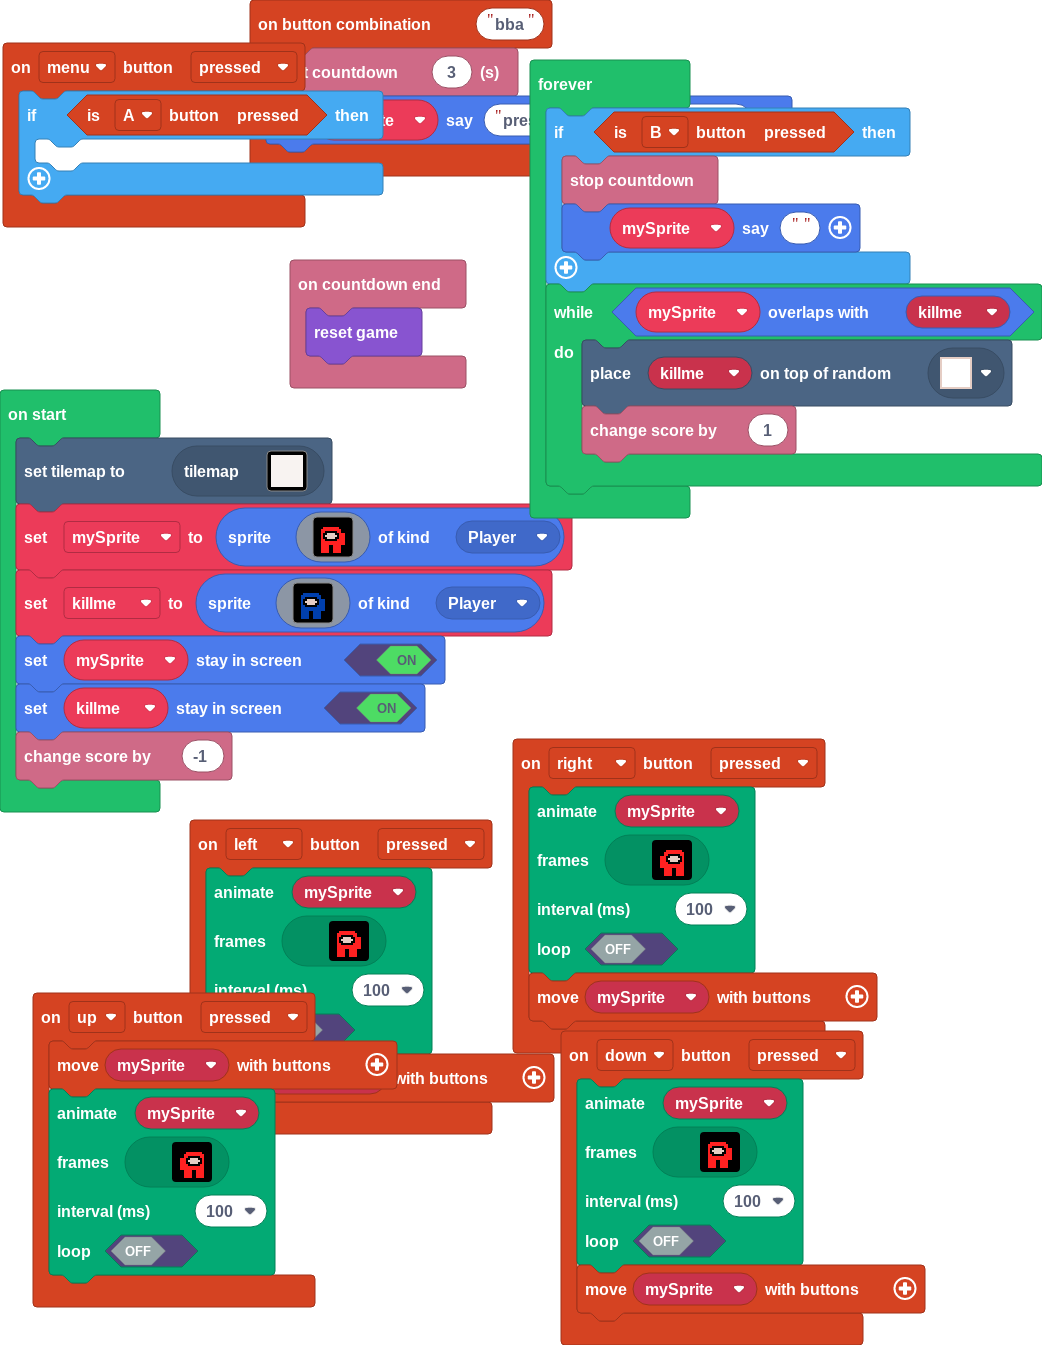
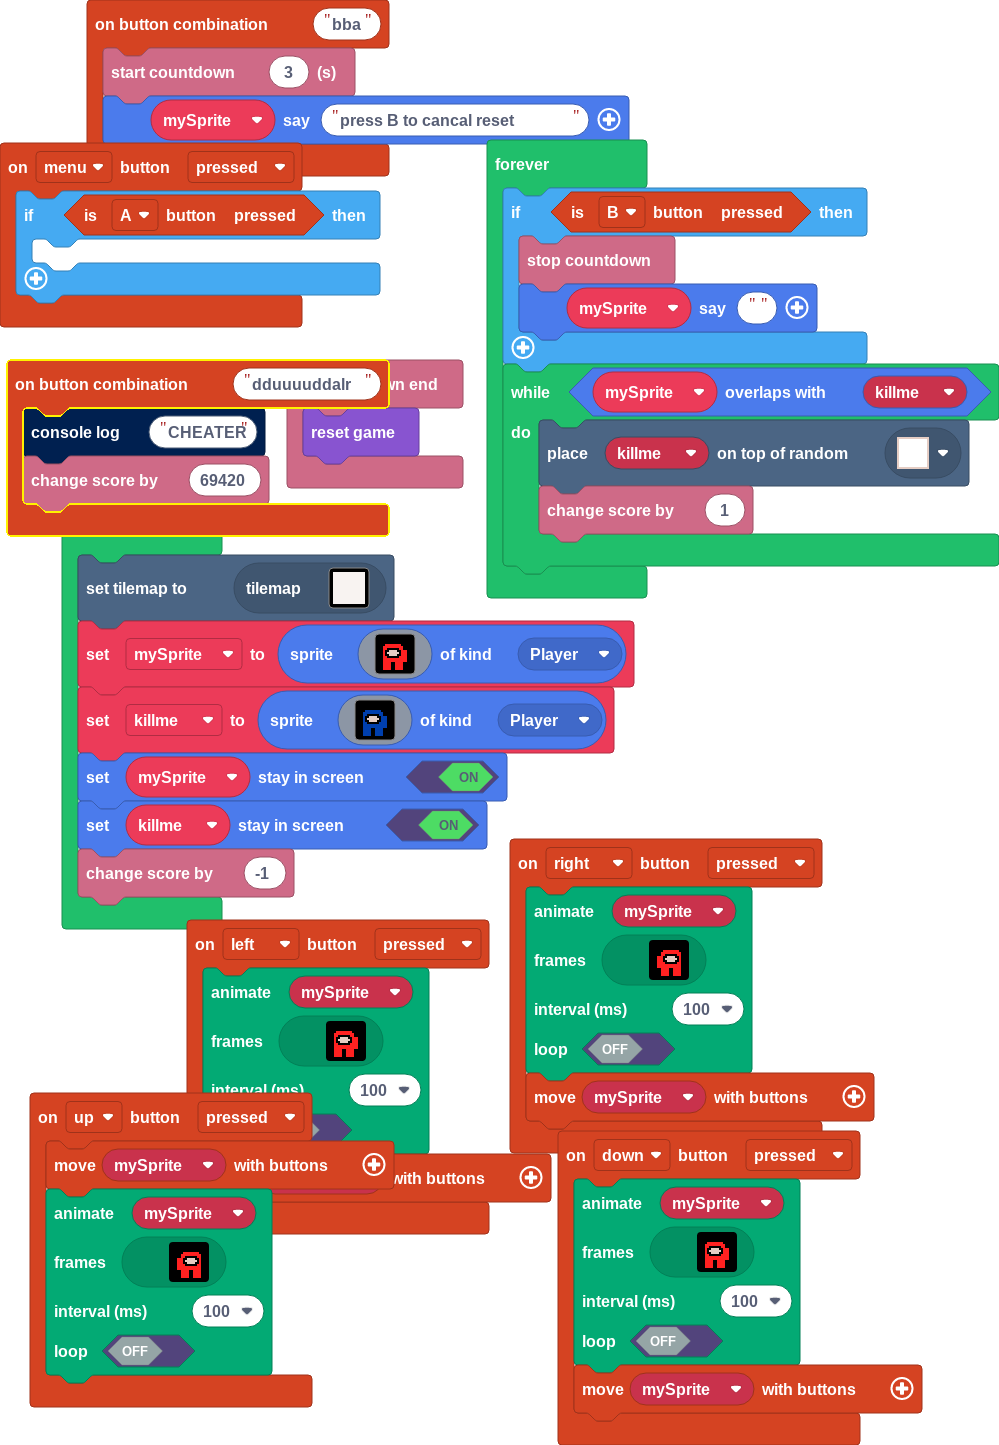
added a cheat code

diff --git a/main.ts b/main.ts
@@ -32,6 +32,10 @@ controller.right.onEvent(ControllerButtonEvent.Pressed, function () {
     )
     controller.moveSprite(mySprite)
 })
+controller.combos.attachCombo("dduuuuddalr", function () {
+    console.log("CHEATER")
+    info.changeScoreBy(69420)
+})
 controller.down.onEvent(ControllerButtonEvent.Pressed, function () {
     animation.runImageAnimation(
     mySprite,
